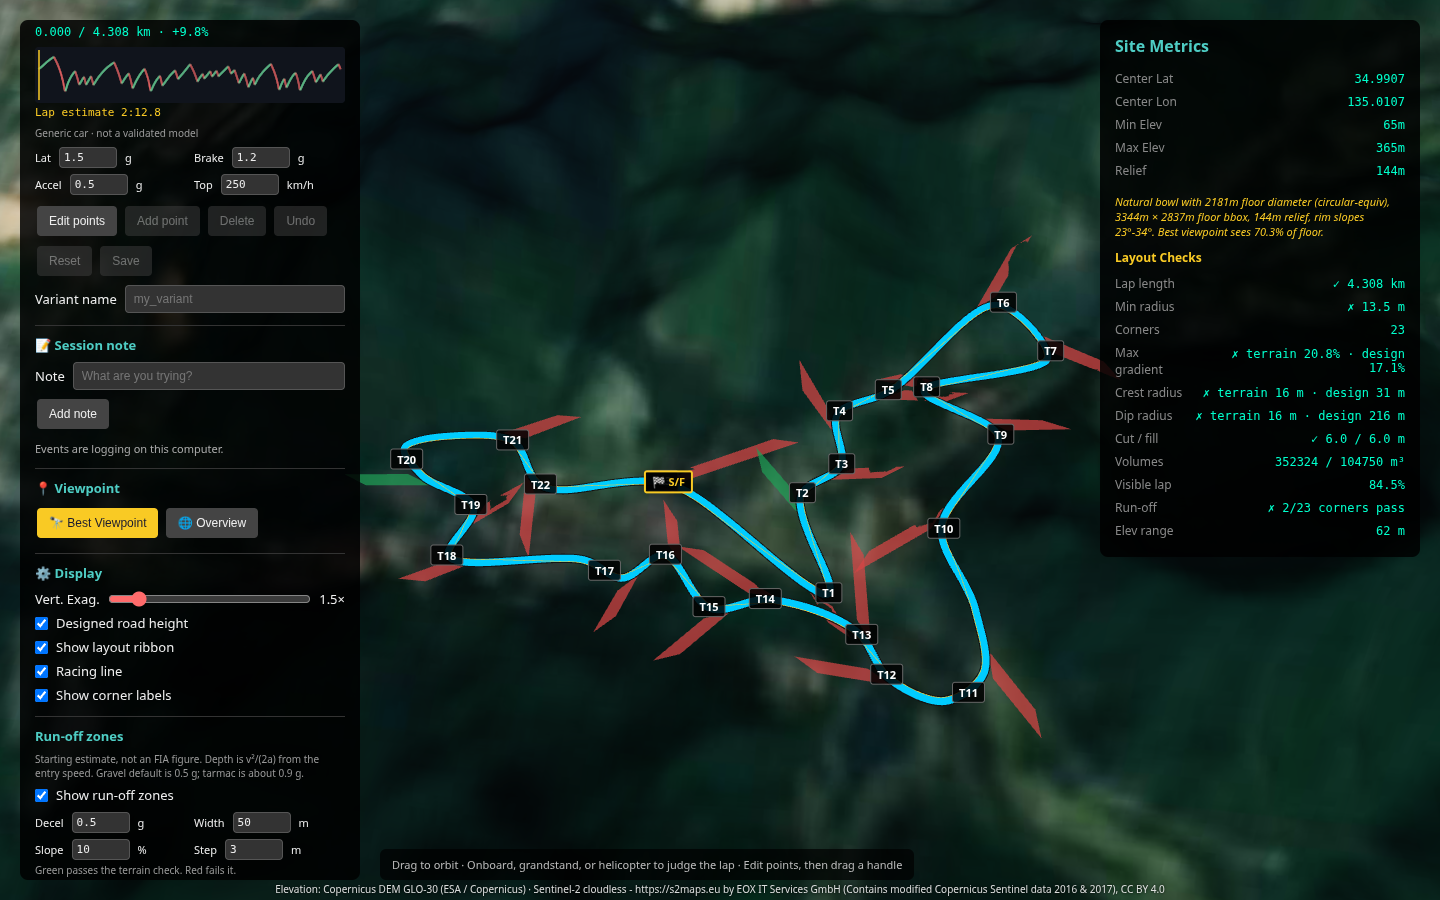
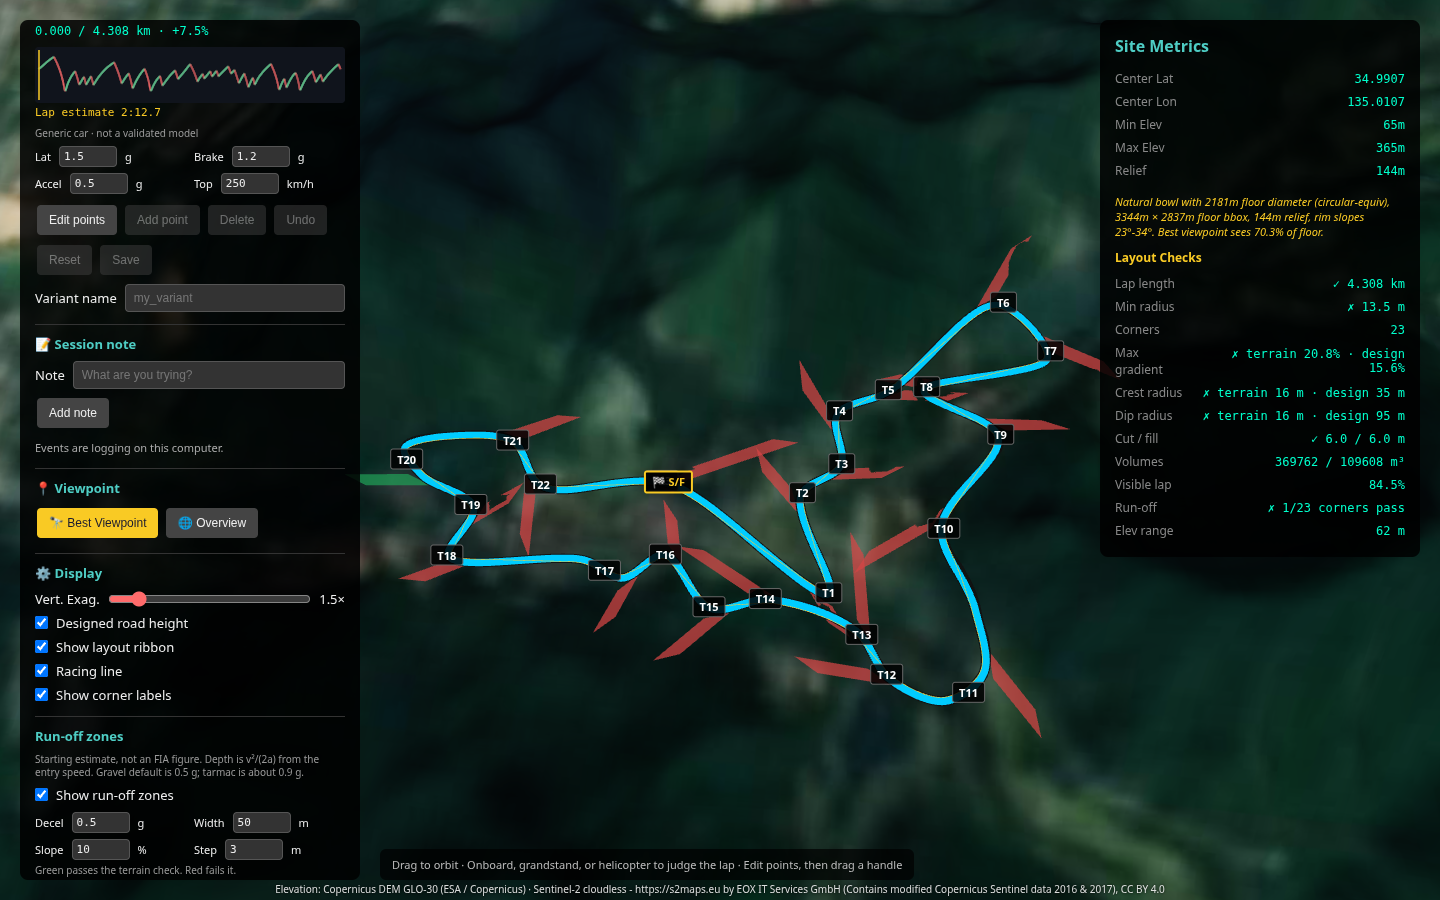
Measure run-off drop and wall from the designed road-edge height.
The deck is flat from the centreline to the edge, so each sample is
compared with the vertical profile's z(s) beside it. Entry speeds ride
that same designed centreline.

diff --git a/viewer/runoff.js b/viewer/runoff.js
@@ -222,6 +222,29 @@ function chainageGap(distanceM, startM, endM, lapM) {
     return Math.min(x - length, lapM - x);
 }
 
+function alongEdge(poly, sx, sy) {
+    const [ax, ay] = poly[0];
+    const [bx, by] = poly[1];
+    const [dx, dy] = poly[3];
+    const ux = bx - ax;
+    const uy = by - ay;
+    const vx = dx - ax;
+    const vy = dy - ay;
+    const det = ux * vy - uy * vx;
+    if (Math.abs(det) < 1e-9) return 0;
+    let u = ((sx - ax) * vy - (sy - ay) * vx) / det;
+    if (u < 0) return 0;
+    if (u > 1) return 1;
+    return u;
+}
+
+function roadEdgeZ(distances, designZ, lapM, poly, sx, sy, startM, widthM) {
+    // Designed deck height on the outside edge beside this sample. The deck
+    // is flat from centreline to edge, so this is z(s), not a mesh sample.
+    const u = alongEdge(poly, sx, sy);
+    return interpClosed(distances, designZ, lapM, startM + u * widthM);
+}
+
 function polygonArea(poly) {
     let area = 0;
     const n = poly.length;
@@ -381,11 +404,16 @@ export function assessRunoff(x, y, distances, designZ, lapM, sampleGround, optio
 
         const zEdge = interpClosed(distances, designZ, lapM, startM);
         const raw = interiorSamples(poly, SAMPLE_SPACING_M, sampleGround);
-        const usable = raw.map((sample) => (
-            Number.isFinite(sample[4])
-                ? sample
-                : [sample[0], sample[1], sample[2], sample[3], zEdge - stepM - 1]
-        ));
+        const usable = [];
+        const edgeZ = [];
+        for (const sample of raw) {
+            const zRef = roadEdgeZ(
+                distances, designZ, lapM, poly, sample[2], sample[3], startM, widthM,
+            );
+            const sz = Number.isFinite(sample[4]) ? sample[4] : zRef - stepM - 1;
+            usable.push([sample[0], sample[1], sample[2], sample[3], sz]);
+            edgeZ.push(zRef);
+        }
         const px = -ey;
         const py = ex;
         const [longSlope, crossSlope] = maxSlopes(usable, ex, ey, px, py);
@@ -393,8 +421,8 @@ export function assessRunoff(x, y, distances, designZ, lapM, sampleGround, optio
         let maxWall = 0;
         let cutSum = 0;
         let fillSum = 0;
-        for (const sample of usable) {
-            const delta = sample[4] - zEdge;
+        for (let s = 0; s < usable.length; s++) {
+            const delta = usable[s][4] - edgeZ[s];
             if (-delta > maxDrop) maxDrop = -delta;
             if (delta > maxWall) maxWall = delta;
             if (delta > 0) cutSum += delta;

diff --git a/viewer/site.html b/viewer/site.html
@@ -956,6 +956,8 @@
         function rebuildRunoff() {
             runoffReport = null;
             if (!layoutPoints || !liveMetrics || layoutPoints.length < 8) return;
+            // The designed deck is flat from centreline to road edge, so the
+            // drop and wall check uses this z(s), not a mesh sample at the edge.
             const designZ = verticalProfile?.design_at_points
                 ? verticalProfile.design_at_points
                 : layoutPoints.map((p) => p.terrainZ ?? p.z);

diff --git a/scripts/verify_runoff.py b/scripts/verify_runoff.py
@@ -36,6 +36,8 @@ from layout_check import (  # noqa: E402
 )
 from runoff import (  # noqa: E402
     GRAVITY_MPS2,
+    _interp_closed,
+    _point_in_polygon,
     assess_runoff,
 )
 from vertical_profile import build_vertical_profile  # noqa: E402
@@ -257,6 +259,122 @@ def check_flat_and_cliff(skip_js: bool) -> None:
     compare(cliff_py, cliff_js, "cliff")
 
 
+def _zone_ground(distances, design, lap, zones, turn_in_only: bool):
+    """Terrain that sits on the designed edge, or on the turn-in height only."""
+
+    def height(x, y):
+        for zone in zones:
+            poly = zone["polygon"]
+            if not _point_in_polygon(x, y, poly):
+                continue
+            if turn_in_only:
+                return float(_interp_closed(distances, design, lap, zone["turn_in_m"]))
+            ax, ay = poly[0]
+            bx, by = poly[1]
+            dx, dy = poly[3]
+            ux, uy = bx - ax, by - ay
+            vx, vy = dx - ax, dy - ay
+            det = ux * vy - uy * vx
+            if abs(det) < 1e-9:
+                u = 0.0
+            else:
+                u = ((x - ax) * vy - (y - ay) * vx) / det
+            if u < 0.0:
+                u = 0.0
+            elif u > 1.0:
+                u = 1.0
+            return float(_interp_closed(
+                distances, design, lap, zone["turn_in_m"] + u * zone["width_m"],
+            ))
+        return 100.0
+
+    return height
+
+
+def _zones_spec(distances, design, lap, zones, mode: str) -> dict:
+    return {
+        "kind": "zones",
+        "distances": distances.tolist(),
+        "designZ": np.asarray(design, dtype=np.float64).tolist(),
+        "lapM": lap,
+        "mode": mode,
+        "zones": [
+            {
+                "polygon": zone["polygon"],
+                "turnInM": zone["turn_in_m"],
+                "widthM": zone["width_m"],
+            }
+            for zone in zones
+        ],
+    }
+
+
+def check_designed_edge(skip_js: bool) -> None:
+    """Drop and wall use the designed road-edge height, which is z(s)."""
+    xy, distances, lap = stadium()
+
+    def terrain(_x, _y):
+        return 100.0
+
+    raised_design = np.full(len(xy), 108.0)
+    raised = assess_runoff(
+        xy[:, 0], xy[:, 1], distances, raised_design, lap, terrain, track_width_m=14,
+    )
+    if raised["pass_count"] != 0:
+        fail(f"an edge 8 m above the ground should fail, got {raised['summary']}")
+    for corner in raised["corners"]:
+        if corner["reasons"] != ["drop"]:
+            fail(f"raised edge corner {corner['index']} reasons {corner['reasons']}")
+        if abs(corner["z_edge_m"] - 108.0) > 1e-6:
+            fail(f"z_edge {corner['z_edge_m']} is not the designed height 108 m")
+        if abs(corner["max_drop_m"] - 8.0) > 0.05:
+            fail(f"drop {corner['max_drop_m']} m should be the 8 m designed step")
+    print(f"designed edge: {raised['summary']}, each an 8 m drop below z(s)")
+
+    design = 100.0 + 0.08 * distances
+    probe = assess_runoff(
+        xy[:, 0], xy[:, 1], distances, design, lap, terrain,
+        track_width_m=14, slope_limit=1.0,
+    )
+    zones = probe["corners"]
+    matched = assess_runoff(
+        xy[:, 0], xy[:, 1], distances, design, lap,
+        _zone_ground(distances, design, lap, zones, False),
+        track_width_m=14, slope_limit=1.0,
+    )
+    if matched["pass_count"] != matched["corner_count"]:
+        detail = [(c["index"], c["reasons"], c["max_drop_m"], c["max_wall_m"]) for c in matched["corners"]]
+        fail(f"terrain on the designed edge should pass, got {detail}")
+    held = assess_runoff(
+        xy[:, 0], xy[:, 1], distances, design, lap,
+        _zone_ground(distances, design, lap, zones, True),
+        track_width_m=14, slope_limit=1.0,
+    )
+    for corner in held["corners"]:
+        if "drop" not in corner["reasons"] and "wall" not in corner["reasons"]:
+            fail(
+                f"terrain held at the turn-in height should miss the rising edge, "
+                f"corner {corner['index']} {corner['reasons']}"
+            )
+    print("designed edge follows z(s) along the outside edge")
+
+    if skip_js:
+        return
+    compare(raised, run_js("assess", payload_from(
+        xy, distances, raised_design, lap, {"kind": "constant", "z": 100},
+    )), "raised-edge")
+    compare(matched, run_js("assess", payload_from(
+        xy, distances, design, lap,
+        _zones_spec(distances, design, lap, zones, "along"),
+        slope_limit=1.0,
+    )), "edge-along")
+    compare(held, run_js("assess", payload_from(
+        xy, distances, design, lap,
+        _zones_spec(distances, design, lap, zones, "turn-in"),
+        slope_limit=1.0,
+    )), "edge-turn-in")
+
+
 def check_overlap(skip_js: bool) -> None:
     xy, distances, lap = overlap_track()
     design = np.full(len(xy), 50.0)
@@ -405,6 +523,7 @@ def main() -> int:
     if shutil.which("node") is None and not skip_js:
         fail("node not found: install Node.js 18+ or set SKIP_JS_PARITY=1")
     check_flat_and_cliff(skip_js)
+    check_designed_edge(skip_js)
     check_overlap(skip_js)
     check_trace_changes_depth(skip_js)
     print("fitting layouts...")

diff --git a/scripts/runoff.py b/scripts/runoff.py
@@ -14,6 +14,11 @@ A zone passes only when terrain inside it stays under the slope limit, stays
 within the drop/wall step of the designed road-edge height, and does not meet
 another part of the track more than overlap_gap metres away along the lap.
 
+The road edge is the designed deck. That deck is flat from the centreline to
+the edge, so its height is the vertical profile's z(s), not a terrain or mesh
+sample at the edge coordinates. Each sample is compared with z(s) on the
+outside edge beside it.
+
 The earthworks figure is the rough cut and fill to level a failing zone with
 that road-edge height. It is not a construction estimate.
 
@@ -273,6 +278,45 @@ def _chainage_gap(distance_m: float, start_m: float, end_m: float, lap_m: float)
     return min(x - length, lap_m - x)
 
 
+def _along_edge(poly: list[tuple[float, float]], sx: float, sy: float) -> float:
+    """Fraction along the outside road edge, the first side of the parallelogram."""
+    ax, ay = poly[0]
+    bx, by = poly[1]
+    dx, dy = poly[3]
+    ux = bx - ax
+    uy = by - ay
+    vx = dx - ax
+    vy = dy - ay
+    det = ux * vy - uy * vx
+    if abs(det) < 1e-9:
+        return 0.0
+    u = ((sx - ax) * vy - (sy - ay) * vx) / det
+    if u < 0.0:
+        return 0.0
+    if u > 1.0:
+        return 1.0
+    return u
+
+
+def _road_edge_z(
+    distances: np.ndarray,
+    design_z: np.ndarray,
+    lap_m: float,
+    poly: list[tuple[float, float]],
+    sx: float,
+    sy: float,
+    start_m: float,
+    width_m: float,
+) -> float:
+    """Designed deck height on the outside edge beside this sample.
+
+    The deck is flat from centreline to edge, so this is z(s) from the
+    vertical profile. It is not a terrain or mesh sample at the edge.
+    """
+    u = _along_edge(poly, sx, sy)
+    return _interp_closed(distances, design_z, lap_m, start_m + u * width_m)
+
+
 def _polygon_area(poly: list[tuple[float, float]]) -> float:
     area = 0.0
     n = len(poly)
@@ -452,19 +496,23 @@ def assess_runoff(
         z_edge = _interp_closed(distances, design_z, lap_m, start_m)
         samples = _interior_samples(poly, SAMPLE_SPACING_M, sample_ground)
         usable = []
+        edge_z = []
         for ix, iy, sx, sy, sz in samples:
+            z_ref = _road_edge_z(
+                distances, design_z, lap_m, poly, sx, sy, start_m, width_m,
+            )
             if not math.isfinite(sz):
-                usable.append((ix, iy, sx, sy, z_edge - step_m - 1.0))
-            else:
-                usable.append((ix, iy, sx, sy, sz))
+                sz = z_ref - step_m - 1.0
+            usable.append((ix, iy, sx, sy, sz))
+            edge_z.append(z_ref)
         px, py = -ey, ex
         long_slope, cross_slope = _max_slopes(usable, ex, ey, px, py)
         max_drop = 0.0
         max_wall = 0.0
         cut_sum = 0.0
         fill_sum = 0.0
-        for _ix, _iy, _sx, _sy, sz in usable:
-            delta = sz - z_edge
+        for (_ix, _iy, _sx, _sy, sz), z_ref in zip(usable, edge_z):
+            delta = sz - z_ref
             if -delta > max_drop:
                 max_drop = -delta
             if delta > max_wall:
